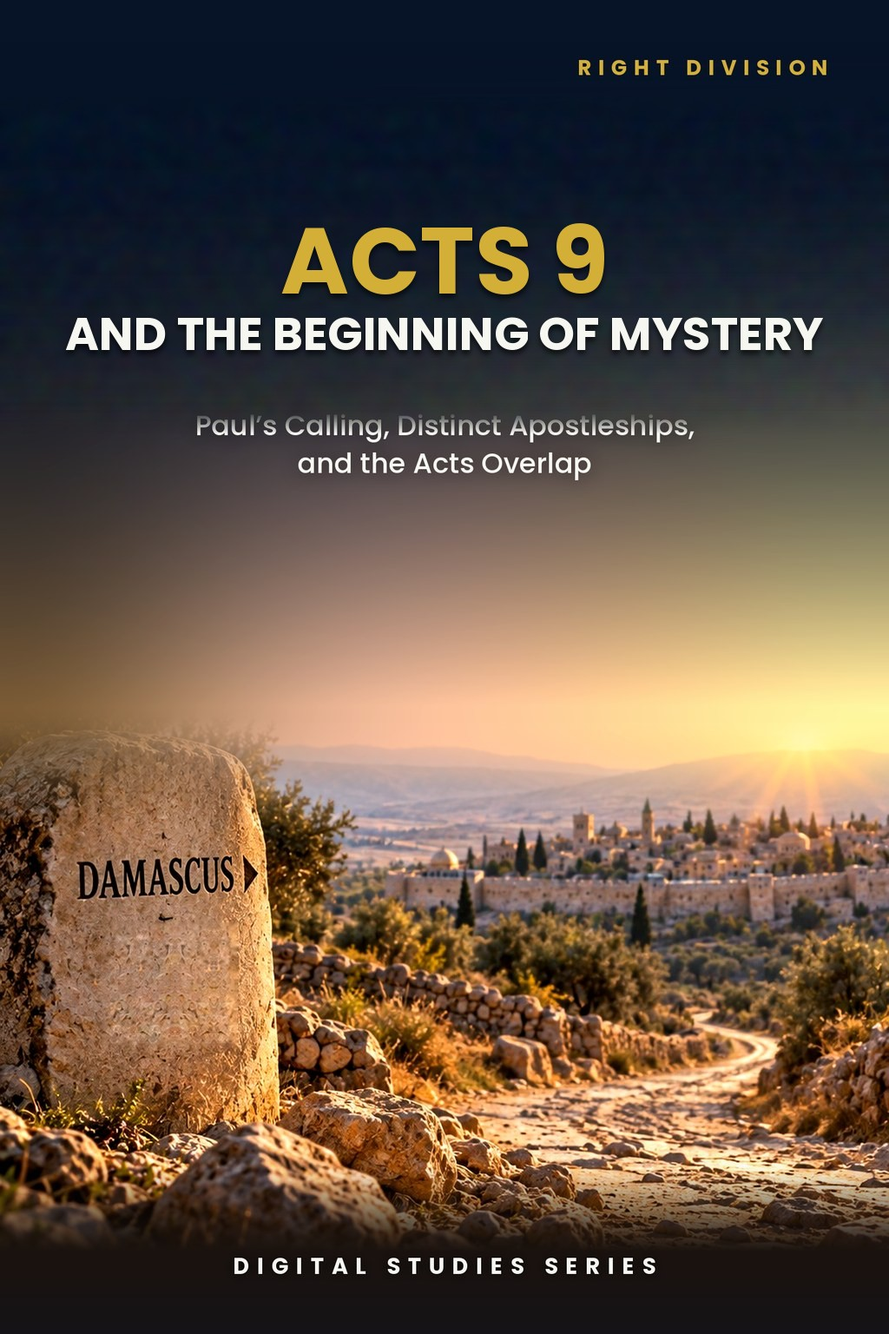
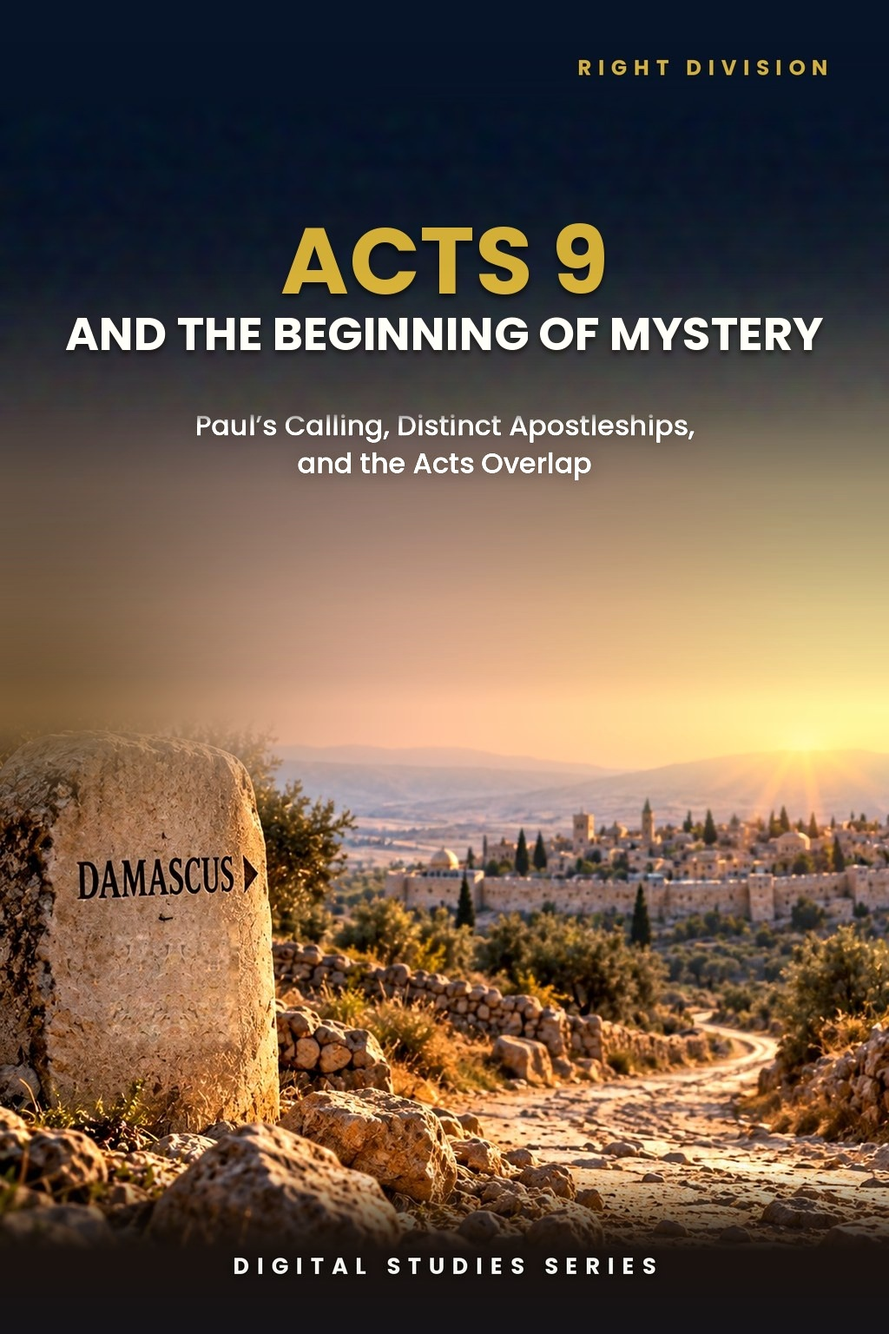
Study 14: rebuild from PDF to Master Standard v1.30 (Roboto, 15 pages); approved cover with subtitle shading lifted; preview strip re-cut to three cards; site.js page count 15; tracker v1.37
Claude-Session: https://claude.ai/code/session_01TLNFW47XCW6YAMUxScR3v4

Changed region(s): [[0.0, 0.2812, 1.0, 0.4688]]

diff --git a/study-14-acts-9-and-the-beginning-of-mystery.html b/study-14-acts-9-and-the-beginning-of-mystery.html
@@ -9,12 +9,12 @@
 .study-detail-page{background:#fff;color:#252525}.study-detail-page .primary-nav a.active{color:#8a8a84!important;border-bottom:1px solid #8a8a84!important}.detail-hero{background:linear-gradient(135deg,#f8f5ec,#e3ece2);padding:58px 0}.detail-hero-grid{display:grid;grid-template-columns:minmax(250px,.72fr) minmax(0,1.28fr);gap:58px;align-items:center}.detail-cover{max-width:390px;margin:auto}.detail-cover img{display:block;width:100%;height:auto;box-shadow:0 14px 36px rgba(8,45,69,.18)}.detail-hero h1{font-size:clamp(2.7rem,5vw,4.7rem);line-height:1.02;margin:8px 0 10px;color:#143823}.detail-subtitle{font-family:Georgia,serif;font-size:1.35rem;font-weight:700;color:#082d45;margin:0 0 7px}.detail-kicker{font-family:Georgia,serif;font-style:italic;font-size:1.05rem;color:#4a4a44;margin:0 0 22px}.detail-copy{font-size:1.08rem;line-height:1.65;max-width:760px}.detail-buyline{display:flex;align-items:center;gap:18px;flex-wrap:wrap;margin-top:25px}.detail-price{font-family:Georgia,serif;font-size:2rem;font-weight:700;color:#143823}.detail-format{font-family:Arial,sans-serif;font-size:.76rem;font-weight:700;letter-spacing:.1em;text-transform:uppercase;color:#176b3a}.detail-button{display:inline-block;background:#176b3a;color:#fff;padding:13px 22px;text-decoration:none;font-family:Arial,sans-serif;font-size:.8rem;font-weight:700;letter-spacing:.07em;text-transform:uppercase}.detail-button.pending{opacity:.72;cursor:default}.detail-section{padding:66px 0}.detail-section.soft{background:#f6f7f2}.detail-section.cream{background:#faf8f2}.detail-section h2{color:#143823;margin:6px 0 18px;font-size:clamp(2rem,3.4vw,3rem)}.detail-section .lead{max-width:920px}.study-points{display:grid;grid-template-columns:repeat(3,1fr);gap:18px;margin-top:28px;margin-bottom:28px}.study-point{background:#fff;border:1px solid var(--line);border-top:3px solid #176b3a;padding:22px}.study-point h3{color:#143823;margin:0 0 8px;font-size:1.2rem}.study-point p{margin:0;line-height:1.55}.scripture-grid{display:grid;grid-template-columns:repeat(4,1fr);gap:14px;margin-top:24px;margin-bottom:24px}.scripture-card{background:#fff;border:1px solid #d8d1bf;padding:22px 20px;text-align:left;color:#143823}.scripture-card h3{margin:0 0 9px;font-family:Georgia,serif;font-size:1rem;line-height:1.35;font-weight:700;color:#143823}.scripture-card p{margin:0;font-size:.94rem;line-height:1.5;color:#45453f}.excerpt{max-width:900px;margin:28px auto;border-left:4px solid #b8871c;padding:10px 0 10px 28px}.excerpt blockquote{font-family:Georgia,serif;font-size:clamp(1.45rem,2.5vw,2rem);line-height:1.45;color:#143823;margin:0 0 16px}.excerpt p{line-height:1.6;margin:0}.preview-lightbox{position:fixed;inset:0;z-index:10000;display:none;align-items:flex-start;justify-content:center;background:rgba(8,22,16,.88);padding:24px;overflow:auto}.preview-lightbox.open{display:flex}.preview-lightbox img{display:block;width:auto;height:auto;max-width:none;box-shadow:0 18px 55px rgba(0,0,0,.4);background:#fff}.preview-lightbox-close{position:fixed;top:18px;right:24px;z-index:10001;width:46px;height:46px;border:1px solid rgba(255,255,255,.65);border-radius:50%;background:rgba(0,0,0,.55);color:#fff;font:32px/1 Arial,sans-serif;cursor:pointer}.preview-lightbox-hint{position:fixed;left:50%;bottom:14px;transform:translateX(-50%);z-index:10001;background:rgba(0,0,0,.46);color:rgba(255,255,255,.92);padding:6px 10px;font:11px Arial,sans-serif;letter-spacing:.02em;border-radius:3px;opacity:0;pointer-events:none;transition:opacity .35s ease}.preview-lightbox.open .preview-lightbox-hint{opacity:1}.preview-lightbox-hint.fade{opacity:0}.preview-grid{display:grid;grid-template-columns:repeat(2,1fr);gap:20px;margin-top:28px;margin-bottom:28px}.preview-card{background:#fff;border:1px solid var(--line);padding:18px;min-height:210px;box-shadow:0 7px 20px rgba(20,40,25,.05)}.preview-image-link{display:block;margin:0 0 18px;text-decoration:none}.preview-image-link img{display:block;width:100%;height:auto;border:1px solid #d8d1bf;box-shadow:0 8px 22px rgba(20,40,25,.10);transition:transform .18s ease,box-shadow .18s ease}.preview-image-link:hover img,.preview-image-link:focus img{transform:translateY(-2px);box-shadow:0 11px 28px rgba(20,40,25,.16)}.preview-card .page-no{font-family:Arial,sans-serif;font-size:.72rem;font-weight:700;letter-spacing:.12em;text-transform:uppercase;color:#176b3a}.preview-card h3{color:#143823;margin:8px 0 10px}.preview-card p{line-height:1.55;margin:0}.preview-instruction{margin:10px 0 0;font-family:Arial,sans-serif;font-size:.78rem;letter-spacing:.04em;color:#5b5b55}.includes-grid{display:grid;grid-template-columns:repeat(4,1fr);gap:14px;margin-top:26px}.include-item{background:#fff;border:1px solid var(--line);padding:22px 20px;text-align:left;color:#143823}.include-item h3{margin:0 0 9px;font-family:Arial,sans-serif;font-size:.86rem;line-height:1.35;font-weight:700;letter-spacing:.02em;color:#143823}.include-item p{margin:0;font-size:.94rem;line-height:1.5;color:#45453f}.final-buy{background:#082d45;color:#fff;border-top:4px solid #b8871c;padding:42px 48px;display:grid;grid-template-columns:1fr auto;gap:36px;align-items:center}.final-buy .eyebrow{color:#e0b34d}.final-buy h2{color:#fff;margin:7px 0 6px}.final-buy p{margin:0}.final-offer{text-align:center}.final-offer .detail-price{color:#fff;font-size:2.7rem}.back-link{display:inline-block;margin-top:18px;color:#143823;font-family:Arial,sans-serif;font-weight:700;text-decoration:none}@media(max-width:900px){.detail-hero-grid{grid-template-columns:1fr;gap:34px}.detail-cover{max-width:330px}.study-points{grid-template-columns:repeat(2,1fr)}.scripture-grid,.includes-grid{grid-template-columns:repeat(2,1fr)}.preview-grid{grid-template-columns:1fr}.final-buy{grid-template-columns:1fr}.final-offer{text-align:left}}@media(max-width:560px){.preview-lightbox{padding:58px 10px 24px}.preview-lightbox img{width:100%;max-width:100%;height:auto}.preview-lightbox-hint{display:none}.detail-hero{padding:42px 0}.detail-section{padding:50px 0}.study-points,.scripture-grid,.includes-grid{grid-template-columns:1fr}.final-buy{padding:32px 24px}.detail-buyline{align-items:flex-start;flex-direction:column;gap:8px}}
 .study-distinction{max-width:920px;margin-top:28px;margin-bottom:28px;padding:26px 28px;background:#fff;border:1px solid #d8d1bf;border-left:4px solid #b8871c}.study-distinction h3{margin:0 0 10px;color:#143823}.study-distinction p{margin:0 0 14px;line-height:1.62}.study-distinction p:last-child{margin-bottom:0}.study-distinction a{font-family:Arial,sans-serif;font-weight:700;color:#176b3a;text-decoration:none}</style></head>
 <body class="study-detail-page"><header class="site-header"><div class="wrap nav"><a aria-label="Zay-Marie Press home" class="logo" href="index.html"><img alt="Zay-Marie Press" height="238" src="assets/zay-marie-press-logo-hq.png" width="420"/></a><button aria-controls="primary-nav" aria-expanded="false" class="menu-toggle" type="button">MENU</button><nav aria-label="Primary navigation" class="primary-nav" id="primary-nav"><a href="index.html">HOME</a><a href="books.html">BOOKS</a><a href="series.html">SERIES</a><a class="active" aria-current="page" href="digital-studies.html">DIGITAL STUDIES</a><a href="biblical-hermeneutics-course.html">COURSE</a><a href="about.html">ABOUT</a><a href="resources.html">RESOURCES</a><a href="contact.html">CONTACT</a></nav></div></header><main>
-<section class="detail-hero"><div class="wrap detail-hero-grid"><div class="detail-cover"><img src="assets/study-14-cover.jpg" alt="Acts 9 and the Beginning of Mystery — Study 14 cover"/></div><div><div class="eyebrow">STUDY 14 · DIGITAL STUDY</div><h1>Acts 9 and the Beginning of Mystery</h1><p class="detail-subtitle">Paul’s Calling, Distinct Apostleships, and the Acts Overlap</p><p class="detail-kicker">A Biblical Examination of the Damascus-Road Calling, Paul’s Apostleship, Peter’s Continuing Ministry, and Acts 28</p><p class="detail-copy">Acts 9 records the risen Christ’s sovereign confrontation and calling of Saul, introducing the distinctive apostleship through which the Mystery is revealed. This study establishes why that event is a genuine historical beginning without treating it as the termination of Israel’s Prophecy Program.</p><p class="detail-copy">Follow the evidence from Acts 1 through Acts 28: Peter’s Kingdom apostleship and Israel’s prophetic setting continue after Acts 9, while Paul’s Mystery apostleship operates distinctly and concurrently until Prophecy reaches its national judicial suspension at Acts 28.</p><div class="detail-buyline"><span class="detail-price">$5.99</span><span class="detail-format">Digital PDF</span><span class="detail-button pending" aria-disabled="true">Get the Study</span></div></div></div></section>
+<section class="detail-hero"><div class="wrap detail-hero-grid"><div class="detail-cover"><img src="assets/study-14-cover.jpg" alt="Acts 9 and the Beginning of Mystery — Study 14 cover"/></div><div><div class="eyebrow">STUDY 14 · DIGITAL STUDY</div><h1>Acts 9 and the Beginning of Mystery</h1><p class="detail-subtitle">Paul’s Calling, Distinct Apostleships, and the Acts Overlap</p><p class="detail-kicker">A Biblical Examination of the Damascus-Road Calling, Paul’s Apostleship, Peter’s Continuing Ministry, and Acts 28</p><p class="detail-copy">Acts 9 records the risen Christ’s sovereign confrontation and calling of Saul, introducing the distinctive apostleship through which the Mystery is revealed. This study establishes why that event is a genuine historical beginning without treating it as the termination of Israel’s Prophecy Program.</p><p class="detail-copy">Follow the evidence from Acts 1 through Acts 28: Peter’s Kingdom apostleship and Israel’s prophetic setting continue after Acts 9, while Paul’s Mystery apostleship operates distinctly and concurrently until Prophecy reaches its national judicial suspension at Acts 28.</p><div class="detail-buyline"><span class="detail-price">$5.99</span><span class="detail-format">Digital PDF</span><span class="detail-button pending" aria-disabled="true">Get the Study</span></div></div></div></div></section>
 <section class="detail-section"><div class="wrap"><div class="eyebrow">ABOUT THIS STUDY</div><h2>Why Does Acts 9 Matter?</h2><p class="lead">Acts 9 must be read against the setting Luke has already established: Israel, Jerusalem, the Twelve, Kingdom testimony, prophetic promise, and signs are all operative before Saul is called. Paul’s apostleship is not an extension of the Twelve’s Kingdom Commission; it begins with the risen Christ’s independent call.</p><p class="lead">Yet a new beginning does not require an immediate ending. Peter continues after Acts 9, Jewish audiences and prophetic settings remain present, and Paul’s own synagogue ministry occurs while Israel’s Prophecy Program is still operating. The Acts 9-28 period is therefore an overlap, not a merger or replacement.</p><p class="lead">This is not a study of when the Body of Christ began as a doctrinal question, which Study 11 argues from revealed content rather than narrative alone, nor of how Peter’s and Paul’s commissions run concurrently after this point, which Study 18 compares directly. Its task is narrower: to read the Acts 9 narrative itself in its own setting, and to show that Paul’s new beginning did not require Peter’s Kingdom ministry to end.</p><div class="study-distinction"><h3>How These Studies Relate</h3><p>Study 14 focuses on Paul’s Acts 9 calling as the beginning of his distinct Mystery commission while Peter’s prophetic ministry continues.</p><p><a href="study-11-the-beginning-of-the-body-of-christ.html">Study 11 — The Beginning of the Body of Christ</a> Develop the related timing question of the Body’s beginning from the doctrinal evidence, rather than assuming that every Acts 9 detail answers it by itself.</p><p><a href="study-18-peter-and-paul-distinct-apostolic-commissions.html">Study 18 — Peter and Paul: Distinct Apostolic Commissions</a> Follow the two apostolic commissions after Paul’s call; their concurrent ministries show why the new commission did not end Peter’s earlier assignment.</p><p class="connection-guide-link"><a href="study-connections.html#study-14">Explore the full connection guide for Study 14 →</a></p></div></div></section>
 <section class="detail-section soft"><div class="wrap"><div class="eyebrow">WHAT YOU’LL STUDY</div><h2>Follow the Acts Narrative in Order</h2><div class="study-points"><div class="study-point"><h3>Acts 1-8 Before Saul’s Calling</h3><p>Establish Israel’s Prophecy and Kingdom setting before the Mystery begins with Paul.</p></div><div class="study-point"><h3>Saul and the Damascus Road</h3><p>See the risen Christ confront and independently call Saul from heaven.</p></div><div class="study-point"><h3>What Begins at Acts 9</h3><p>Identify Paul’s distinctive apostleship, the Mystery Program, and its new revelatory stewardship.</p></div><div class="study-point"><h3>What Continues After Acts 9</h3><p>Follow Peter, Jerusalem, signs, Jewish audiences, and Kingdom testimony through the overlap.</p></div><div class="study-point"><h3>Distinct Apostolic Lines</h3><p>Keep Paul’s Mystery apostleship and Peter’s Kingdom apostleship distinct while they operate concurrently.</p></div><div class="study-point"><h3>Acts 28 and Suspension</h3><p>Recognize the later national judicial suspension point of Prophecy while Mystery continues beyond Acts.</p></div></div></div></section>
 <section class="detail-section cream"><div class="wrap"><div class="eyebrow">KEY SCRIPTURES</div><h2>Examine the Passages for Yourself</h2><div class="scripture-grid"><div class="scripture-card"><h3>Acts 1:1-8</h3><p>Establishes the Kingdom and Israel setting before Acts 9.</p></div><div class="scripture-card"><h3>Acts 2:14-40; 3:12-26</h3><p>Shows Peter’s prophetic citations, Israel audience, and Kingdom testimony.</p></div><div class="scripture-card"><h3>Acts 7:51-60; 8:1-3</h3><p>Sets Saul’s opposition against the Kingdom testimony.</p></div><div class="scripture-card"><h3>Acts 9:1-22</h3><p>Records the confrontation, calling, and beginning of Saul’s ministry.</p></div><div class="scripture-card"><h3>Acts 9:32-43; 10-12</h3><p>Demonstrates Peter’s continuing sign-authenticated ministry after Saul’s call.</p></div><div class="scripture-card"><h3>Galatians 1:11-24</h3><p>Explains Paul’s revelation and independence from Jerusalem.</p></div><div class="scripture-card"><h3>Acts 15:1-29</h3><p>Shows distinct ministries interacting in Jerusalem without becoming identical.</p></div><div class="scripture-card"><h3>Acts 28:17-28</h3><p>Marks the national judicial suspension point of Prophecy.</p></div></div></div></section>
 <section class="detail-section"><div class="wrap"><div class="eyebrow">FROM THE STUDY</div><h2>A New Beginning Without an Immediate Ending</h2><div class="excerpt"><blockquote>“Acts 9 marks the beginning of the Mystery with Paul, not the termination of Prophecy.”</blockquote><p>The Acts narrative makes both truths visible: Paul’s distinct apostleship begins with the risen Christ’s call, while Peter’s Kingdom apostleship and Israel’s prophetic setting continue. Acts 9-28 is therefore the period of distinct and concurrent operation.</p></div></div></section>
-<section class="detail-section soft"><div class="wrap"><div class="eyebrow">A LOOK INSIDE</div><h2>Preview the Study Before You Purchase</h2><p class="preview-instruction">Click any page to enlarge it for reading.</p><div class="preview-grid"><div class="preview-card"><a class="preview-image-link" data-preview-lightbox href="assets/study-14-page-3.jpg"><img src="assets/study-14-page-3.jpg" alt="Study 14 interior preview — page 3, table of contents"/></a><div class="page-no">Page 3</div><h3>Table of Contents</h3><p>See the full structure of the study, from the introduction through the final synthesis.</p></div><div class="preview-card"><a class="preview-image-link" data-preview-lightbox href="assets/study-14-page-2.jpg"><img src="assets/study-14-page-2.jpg" alt="Study 14 interior preview — page 2, what you will learn"/></a><div class="page-no">Page 2</div><h3>What You Will Learn</h3><p>See the study’s central chronology and controlling distinctions at a glance.</p></div><div class="preview-card"><a class="preview-image-link" data-preview-lightbox href="assets/study-14-page-7.jpg"><img src="assets/study-14-page-7.jpg" alt="Study 14 interior preview — page 7, what begins and continues"/></a><div class="page-no">Page 7</div><h3>What Begins and What Continues</h3><p>Compare the new Mystery apostleship with the Prophecy line still operating after Acts 9.</p></div></div></div></section>
+<section class="detail-section soft"><div class="wrap"><div class="eyebrow">A LOOK INSIDE</div><h2>Preview the Study Before You Purchase</h2><p class="preview-instruction">Click any page to enlarge it for reading.</p><div class="preview-grid"><div class="preview-card"><a class="preview-image-link" data-preview-lightbox href="assets/study-14-page-2.jpg"><img src="assets/study-14-page-2.jpg" alt="Study 14 interior preview — page 2, table of contents"/></a><div class="page-no">Page 2</div><h3>Table of Contents</h3><p>See the full structure of the study, from the introduction through the final synthesis.</p></div><div class="preview-card"><a class="preview-image-link" data-preview-lightbox href="assets/study-14-page-3.jpg"><img src="assets/study-14-page-3.jpg" alt="Study 14 interior preview — page 3, what you will learn"/></a><div class="page-no">Page 3</div><h3>What You Will Learn</h3><p>See the skills and interpretive disciplines you will practice, plus the study goal and outline.</p></div><div class="preview-card"><a class="preview-image-link" data-preview-lightbox href="assets/study-14-page-5.jpg"><img src="assets/study-14-page-5.jpg" alt="Study 14 interior preview — page 5, Saul against the Kingdom testimony"/></a><div class="page-no">Page 5</div><h3>Saul and the Prophetic Setting</h3><p>Read how the study sets the narrative scene before Saul’s calling, working directly from the text of Acts.</p></div></div></section>
 <section class="detail-section"><div class="wrap"><div class="eyebrow">WHAT’S INCLUDED</div><h2>A Focused Study Built for<br/>Understanding and Teaching</h2><div class="includes-grid"><div class="include-item"><h3>13-Page In-Depth Biblical Study</h3><p>A focused, Scripture-based argument for the beginning of Mystery with Paul at Acts 9.</p></div><div class="include-item"><h3>Nine Core Teaching Sections</h3><p>Move from Acts 1-8 through Paul’s calling, the overlap, and the Acts 28 suspension.</p></div><div class="include-item"><h3>Damascus-Road Calling Study</h3><p>Examine the risen Christ’s independent call of Saul and the beginning of his distinctive apostleship.</p></div><div class="include-item"><h3>What Begins / What Continues Comparison</h3><p>Compare the Mystery Program with the Prophecy Program that remains operative through the overlap.</p></div><div class="include-item"><h3>Acts Narrative Evidence</h3><p>Follow Peter, Jerusalem, signs, Jewish audiences, and Paul’s ministry after Acts 9.</p></div><div class="include-item"><h3>12 Review Questions</h3><p>Test the chronological controls that distinguish beginning, continuation, and suspension.</p></div><div class="include-item"><h3>Teaching Outline</h3><p>A ready framework for presenting the Acts Overlap with precision and restraint.</p></div><div class="include-item"><h3>Guided Study and Final Synthesis</h3><p>Trace the narrative directly and explain why Acts 9 begins Mystery without terminating Prophecy.</p></div></div></div></section>
 <section class="detail-section cream"><div class="wrap"><div class="final-buy"><div><div class="eyebrow">STUDY 14 · DIGITAL STUDY</div><h2>Acts 9 and the Beginning of Mystery</h2><p>13-page digital PDF · For personal use</p></div><div class="final-offer"><div class="detail-price">$5.99</div><span class="detail-button pending" aria-disabled="true">Get the Study</span></div></div><a class="back-link" href="digital-studies.html">← Back to All Digital Studies</a></div></section><section class="study-method-course-bridge"><div class="wrap"><div class="study-method-course-panel"><div><div class="eyebrow">BUILD THE INTERPRETIVE METHOD</div><h2>Want More Than a Focused Study?</h2><p>Digital Studies examine particular biblical subjects and difficult passages. The 40-lesson Biblical Hermeneutics course teaches a complete, repeatable method for establishing meaning in context, determining proper assignment, and making responsible application.</p></div><a class="btn btn-primary" href="biblical-hermeneutics-course.html">BIBLICAL HERMENEUTICS COURSE</a></div></div></section></main>
 <div class="preview-lightbox" id="preview-lightbox" role="dialog" aria-modal="true" aria-label="Enlarged study page preview"><button class="preview-lightbox-close" type="button" aria-label="Close enlarged preview">×</button><img src="" alt=""/><div class="preview-lightbox-hint">Scroll to read the full page · Press Esc or click outside the page to close</div></div>

diff --git a/site.js b/site.js
@@ -62,7 +62,7 @@ const resourceModal=document.querySelector('#resource-modal'), resourceModalTitl
 if(resourceModal&&resourceModalTriggers.length){const closeResourceModal=()=>{resourceModal.hidden=true;document.body.classList.remove('resource-modal-open');lastResourceTrigger?.focus();};resourceModalTriggers.forEach(trigger=>trigger.addEventListener('click',()=>{lastResourceTrigger=trigger;if(resourceModalTitle)resourceModalTitle.textContent=trigger.dataset.title||'Resource';if(resourceModalDescription)resourceModalDescription.textContent=trigger.dataset.description||'';if(resourceModalLink){resourceModalLink.href=trigger.dataset.href||'#';resourceModalLink.textContent=trigger.dataset.linkText||'OPEN RESOURCE';}resourceModal.hidden=false;document.body.classList.add('resource-modal-open');resourceModalClose?.focus();}));resourceModalClose?.addEventListener('click',closeResourceModal);resourceModal.addEventListener('click',e=>{if(e.target===resourceModal)closeResourceModal();});document.addEventListener('keydown',e=>{if(e.key==='Escape'&&!resourceModal.hidden)closeResourceModal();});}
 
 /* Display the verified final-PDF page count at the primary purchase decision point. */
-const digitalStudyPageCounts={1:14,2:14,3:18,4:18,5:16,6:16,7:16,8:16,9:16,10:23,11:15,12:14,13:18,14:13,15:13,16:14,17:14,18:13,19:13,20:13,21:14,22:15,23:15,24:13,25:13,26:17,27:15,28:14,29:13,30:17,31:17,32:14,33:15,34:16,35:15,36:15,37:15,38:16,39:16,40:15,41:15,42:15,43:17,44:15,45:15,46:15,47:16,48:15,49:14,50:14,51:15,52:15,53:15,54:15,55:16,56:16,61:16,62:16,63:16,64:16,65:16,66:16,67:16,68:16,69:16,70:16,71:16};
+const digitalStudyPageCounts={1:14,2:14,3:18,4:18,5:16,6:16,7:16,8:16,9:16,10:23,11:15,12:14,13:18,14:15,15:13,16:14,17:14,18:13,19:13,20:13,21:14,22:15,23:15,24:13,25:13,26:17,27:15,28:14,29:13,30:17,31:17,32:14,33:15,34:16,35:15,36:15,37:15,38:16,39:16,40:15,41:15,42:15,43:17,44:15,45:15,46:15,47:16,48:15,49:14,50:14,51:15,52:15,53:15,54:15,55:16,56:16,61:16,62:16,63:16,64:16,65:16,66:16,67:16,68:16,69:16,70:16,71:16};
 const digitalStudyMatch=window.location.pathname.match(/\/study-(\d+)-/i);
 const digitalStudyFormat=document.querySelector('.detail-hero .detail-format');
 if(digitalStudyMatch&&digitalStudyFormat){const studyNumber=Number(digitalStudyMatch[1]),pageCount=digitalStudyPageCounts[studyNumber];if(pageCount)digitalStudyFormat.textContent=`Digital PDF · ${pageCount} Pages`;}

diff --git a/controlling-documents/Digital_Studies_PAM_Audit_v1.37.md b/controlling-documents/Digital_Studies_PAM_Audit_v1.37.md
@@ -63,7 +63,7 @@ Priority list (publisher's list):
 | 11 The Beginning of the Body of Christ | Clear | Acts 1–8 Kingdom; Acts 2 not the Body; Acts 9–28 Overlap | Pentecost kept in Joel 2 setting. |
 | 12 The New Covenant | Fixed (publisher approved) | New covenant parties Israel and Judah; Luke 22:20; Section 4 on 2 Cor 3:6 | Body benefits from Christ's work without being the covenant party. |
 | 13 The Olive Tree and the Body of Christ | Fixed (publisher approved) | Romans 11:25 ruling; Remnant | Romans 11 placed inside the Overlap. |
-| 14 Acts 9 and the Beginning of Mystery | Clear | Acts 1–8; Acts 9–28; Acts 10–11 ruling; Acts 15 ruling | Acts 10–12 presented as Peter's continuing ministry. PDF: confirm Acts 10–11 stays a Prophecy Program event. |
+| 14 Acts 9 and the Beginning of Mystery | Clear (rebuilt, publisher approved) | Acts 1–8; Acts 9–28; Acts 10–11 ruling; Acts 15 ruling | Acts 10–12 presented as Peter's continuing ministry. PDF: confirm Acts 10–11 stays a Prophecy Program event. |
 | 18 Peter and Paul: Distinct Apostolic Commissions | Clear | Acts 9–28 Overlap; Acts 15; Galatians 2:7 | |
 | 19 The Jerusalem Council | Clear (PDF) | Acts 15 ruling (Overlap, not one program); Acts 10–11 ruling | PDF read: Acts 15 = recognition without absorption inside the Overlap; Acts 10 not assigned to the Body. |
 | 20 Understanding Acts 2:38 | Clear | Acts 2 details (Kingdom entry; Joel 2; not Spirit baptism into the Body) | |
@@ -263,3 +263,4 @@ Study 15 PDF not yet supplied. Typography: none of Studies 2, 3, 6, 8 is in EB G
 - v1.34 (2026-09-30): Study 10 (Daniel's Seventieth Week) read in full against the PAM and Framework from the publisher's DOCX (v17): clear (seventy weeks kept with Israel and Jerusalem; Acts 1–8 Prophecy, Acts 9 Mystery begins, Acts 9–28 overlap, Acts 28 suspension not cancellation; no Matt 24/Luke 17 rapture claims; Rom 11:25 only in a reading list). Rebuilt in Roboto to Master Standard v1.30 (12/8 headings, Study 8+ footer, no header): five boxed callouts (Study Goal, Audience Control, Chronology Control, Overlap Control, Final Truth; Redemption Control became a run-in paragraph), Study Outline drafted from the Teaching Outline, Investigation 6 heading supplied, duplicate Final Synthesis merged into one heading, broken source paragraphs rejoined, misplaced Scripture-Tracing paragraph moved, Roman-numeral Teaching Outline turned to bullets. Length: the study is about 8,000 words; condensing to 17 pages would have cut important content, so the publisher accepted 23 pages as an exception to §9 (cover plus 22 interior). Only restated material was removed (Judgment Is Not Redemption, Suffering Does Not Redeem Israel, Israel's Future Rests Upon God, Two Destinies Remain Distinct, four Conclusion subsections, the Conclusion recap bullets and closing paragraphs). Website: preview strip re-cut to TOC (p2), What You Will Learn (p3), Section 1 (p4); old extra preview images removed; page count stays 23. Approved by the publisher ("i approve") and pushed.
 - v1.35 (2026-09-30): Study 12 (The New Covenant) read in full against the PAM and Framework from the publisher's PDF (v21, 13 pages; no DOCX): clear except one framing point. Section 9.1 spoke of Paul's "ministry concerning the New Covenant during the Acts period"; per the Section 4 ruling on 2 Cor 3:6 (the new covenant stays with Israel/Judah; Paul's ministry stays with the Mystery) it now reads: "Paul's ministry in 2 Corinthians 3:6 belongs to the Mystery administration committed to him; it does not make the Body a covenant party. The New Covenant itself stays with Israel and Judah. His ability to speak of that covenant in his ministry does not require that his Mystery audience become Israel or Judah." (publisher approved the wording). Approved by the publisher ("i approve") at 14 pages and pushed. Rebuilt from the PDF in Roboto to Master Standard v1.30: five boxed callouts kept (Study Goal, Interpretive Control, Covenant Identity, Acts Overlap Clarification, Doctrinal Principle; Restoration Control and Redemptive Basis became run-in paragraphs), Study Outline drafted from the Teaching Outline, covenant-promises diagram and both tables kept, imprint standard text (personal-use wording dropped); 14 pages (cover plus 13 interior; source text is about 3,900 words). Website: preview strip re-cut to TOC (p2), What You Will Learn (p3), p5; old extra preview images removed; site.js page count 13 to 14.
 - v1.36 (2026-09-30): Study 13 (The Olive Tree and the Body of Christ) read in full against the PAM and Framework from the publisher's PDF (v11, 15 pages; no DOCX): clear except one point. The "Fullness of the Gentiles" paragraph (Rom 11:25) had said not to equate the expression with the Body's completion "without further textual argument"; per the PAM (Rom 11:25 = Prophecy Program, Israel's future restoration, not Body fullness) and the Section 4 ruling it now reads: "Romans 11:25 associates the limit of Israel's partial blindness with 'the fulness of the Gentiles.' This is Prophecy Program content concerning Israel's future restoration, stated during the Mystery administration. It is not the fullness of the Body of Christ, and it should not be equated with every other Pauline reference involving Gentile fullness." (publisher approved the wording; the next paragraph is unchanged). The source PDF, and the live purchasable PDF, had flattened headings and stray footer lines inside the text; the structure was rebuilt from the Table of Contents and run-in headings (25 subheadings restored). Rebuilt in Roboto to Master Standard v1.30: five boxed callouts (Study Goal, Interpretive Control, Grafting Control, Mystery Control, Acts Overlap Control; the other eight source controls/principles became run-in paragraphs), Study Outline drafted, standard imprint; 18 pages (cover plus 17 interior; publisher accepted 18). Cover: the website cover, with six blurred patches in the artwork retouched. Website: preview strip re-cut to TOC (p2), What You Will Learn (p3), p5; old extra preview images removed; cover image replaced with the retouched one; site.js page count 15 to 18. Approved by the publisher ("i approve") and pushed.
+- v1.37 (2026-10-01): Study 14 (Why Acts 9 Matters) read in full against the PAM and Framework from the publisher's PDF (v4, 13 pages; no DOCX): clear, no wording changes (Acts 10–12/Cornelius kept as Peter's continuing Prophecy ministry inside the Overlap; Acts 15 treated as interaction between distinct ministries, not one program; Romans 11, Galatians and Ephesians appear only as further-study pointers). Rebuilt to Master Standard v1.30 in Roboto: 15 pages (cover plus 14 interior), five boxed callouts (Apostolic Control became a run-in body paragraph), drafted process-only Study Outline, Teaching Outline renumbered as bullets, both tables restyled. Cover: the website cover with the dark shading behind the subtitle lifted and the subtitle lettering evened to white; publisher approved. Preview strip re-cut to three cards (TOC p2, What You Will Learn p3, section 2 page p5; old p7 table preview removed); site.js page count 13 to 15. Publisher approved ("i approve") and pushed.
